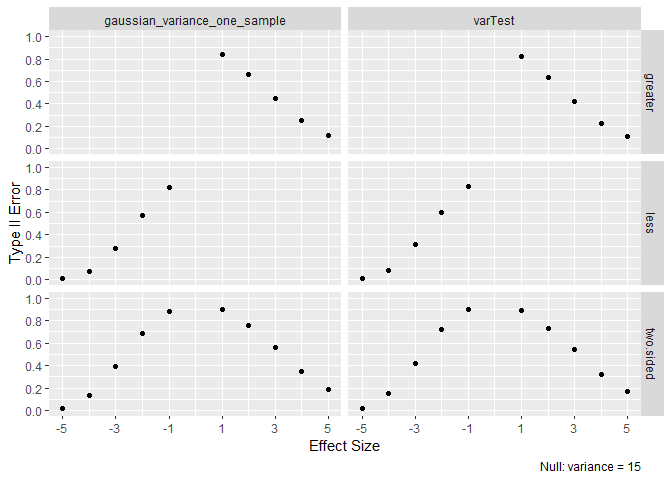
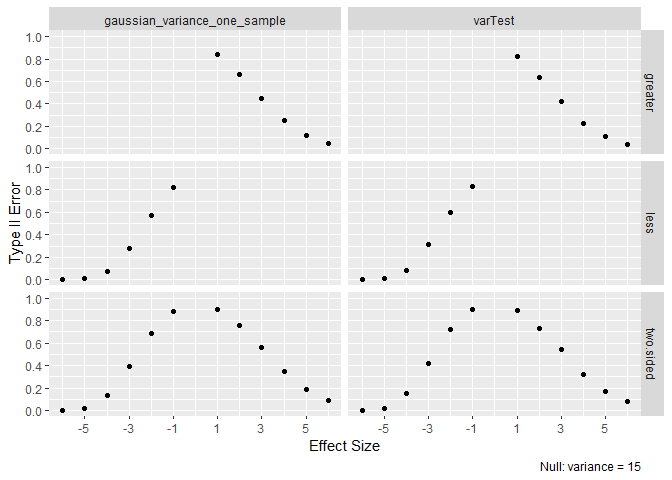
finish rewording

diff --git a/type II/README.md b/type II/README.md
@@ -2,10 +2,11 @@
 # Data Overview
 
 Similar to type I error rates, type II error rates are estimated. The
-main change is the alternative hypothesis is true. The null hypothesis
-is held constant and effect size varies. The first five rows look like
+main changes are the alternative hypothesis is true, the null hypothesis
+is held constant and effect size varies. The first five data points look
+like
 
-    #> # A tibble: 88,000 x 5
+    #> # A tibble: 96,000 x 5
     #>   test                   effectSize  stat    pvalue alt      
     #>   <chr>                       <dbl> <dbl>     <dbl> <chr>    
     #> 1 gaussian_mu_one_sample       -0.3  15.7 0.0000759 two.sided
@@ -13,12 +14,12 @@ is held constant and effect size varies. The first five rows look like
     #> 3 gaussian_mu_one_sample       -0.3  16.2 0.0000557 two.sided
     #> 4 gaussian_mu_one_sample       -0.3  17.3 0.0000319 two.sided
     #> 5 gaussian_mu_one_sample       -0.3  14.9 0.000113  two.sided
-    #> # ... with 87,995 more rows
+    #> # ... with 95,995 more rows
     #> # i Use `print(n = ...)` to see more rows
 
-Multiple experiments are aggregated to calculate type I error rates.
+Multiple experiments are aggregated to calculate type II error rates.
 
-    #> # A tibble: 22 x 3
+    #> # A tibble: 24 x 3
     #> # Groups:   test [2]
     #>   test                   effectSize Type_II_Error
     #>   <chr>                       <dbl>         <dbl>
@@ -27,7 +28,7 @@ Multiple experiments are aggregated to calculate type I error rates.
     #> 3 gaussian_mu_one_sample      -0.2           0.15
     #> 4 gaussian_mu_one_sample      -0.15          0.37
     #> 5 gaussian_mu_one_sample      -0.1           0.64
-    #> # ... with 17 more rows
+    #> # ... with 19 more rows
     #> # i Use `print(n = ...)` to see more rows
 
 Like type I calculations, each simulated experiment is based on a sample
@@ -36,8 +37,7 @@ times. Where possible, exact tests are included for comparison.
 
 # Overall Type II Error Rate
 
-All tests can achieve near 0% type II error for a large enough effect
-size.
+All tests achieve near 0% type II error for a large enough effect size.
 
 <img src="man/figures/README-typeTwoSummary-1.png" width="100%" />
 
@@ -50,9 +50,9 @@ For a distribution, the likelihood ratio test works well if
     similar to the exact test.
 
 To check the above, one graph is shown per test. When the effect size is
-near 0, type II error rates are near 100%. As effect sizes grow, type II
-error rates decrease. All tests achieve near 0% type II for large effect
-sizes.
+near 0, type II error rates are near 100%. As effect size grows, type II
+error rates decrease. All tests achieve near 0% type II for large enough
+effect sizes.
 
 ## Gaussian
 

diff --git a/README.md b/README.md
@@ -1,9 +1,10 @@
 
 # Repo Overview
 
-This repo is a simulation study. Each row is an experiment. It is
-simulated in that data are generated from random generators. The first
-five rows look like
+This repo is a simulation study of statistical properties for hypothesis
+tests in LRTesteR. Each row is an experiment where data are generated
+from random number generators and hypothesis test done. The first five
+rows look like
 
     #> # A tibble: 180,000 x 8
     #>   test                      mu variance      stat pvalue alt       CI_LB CI_UB
@@ -41,7 +42,7 @@ folders. Code to run the simulation is in the R Code folder.
 
 # One Sample Type I Error Rate
 
-Most tests have a type I error rate of .05. Likelihood ratio tests have
+Most tests have a type I error rate of 5%. Likelihood ratio tests have
 similar error rates to exact tests.
 
 <img src="man/figures/README-typeOneSummary-1.png" width="100%" />
@@ -52,23 +53,23 @@ Compared to the one sample tests, type I error rates have increased.
 
 For the one sample tests, all 200 data points are associated with one
 group. The one parameter is estimated using all 200 data points. For the
-one way tests, there are two groups and therefore two parameters that
-must be estimated. Each parameter is based on only 100 data points each.
-The cost of less data per parameter is a type I error further from the
+one way tests, there are two groups and therefore two parameters
+estimated. Each parameter is based on only 100 data points each. The
+cost of less data per parameter is a type I error further from the
 target 5%.
 
 <img src="man/figures/README-typeOneSummary2-1.png" width="100%" />
 
 # One Sample Type II Error Rate
 
-All tests can achieve near 0% type II error for a large enough effect
-size.
+All tests achieve near 0% type II error for a large enough effect size.
 
 <img src="man/figures/README-typeTwoSummary-1.png" width="100%" />
 
 # One Way Type II Error Rate
 
-Similar to above, all tests can achieve near 0% type II error rate.
+Similar to above, all one way tests have near 0% type II error rate for
+large effect sizes.
 
 <img src="man/figures/README-typeTwoSummary2-1.png" width="100%" />
 
@@ -76,6 +77,6 @@ Similar to above, all tests can achieve near 0% type II error rate.
 
 In addition to error rates, confidence interval coverage rates are
 estimated. Most functions have a coverage rate of 95%. The worst
-performing confidence intervals are within one a percentage point.
+performing confidence intervals are within one percentage point.
 
 <img src="man/figures/README-CISummary-1.png" width="100%" />

diff --git a/type I/README.md b/type I/README.md
@@ -7,7 +7,7 @@ a sample size of 200. Where possible, exact tests are included for
 comparison.
 
 Most tests have a type I error rate of .05. Exploring each test one by
-one, most tests have a consistent type I rate across the entire
+one, most tests have a consistent type I rate across the explored
 parameter space and alternative hypotheses. The negative binomial has an
 area where type I error rate increases slightly.
 
@@ -23,10 +23,9 @@ For a distribution, the likelihood ratio test works well if
     hypotheses.
 
 To check the above, two graphs are shown per test. For the first point,
-the parameter space is explored. If type I error is near 5% over all
-values, it is reasonable to assume type I error rate is consistent for
-all values not near the boundary. For the second point, results are
-aggregate across alternative hypotheses.
+type I error rate is calculated for many areas in the parameter
+space.For the second point, results are aggregate across alternative
+hypotheses.
 
 ## Gaussian
 
@@ -59,8 +58,9 @@ the type I error rate is .05. When the target number of successes is
 small and p is near one, the likelihood test has an increase in type I
 error rate. How near is too near depends on the target number of
 successes. Visually this is the bottom right corner of the right graph.
-The exact test shows poor performance in the bottom right corner as well
-but is always conservative.
+
+In the bottom right corner, the exact test is a bit off from the target
+5%. It is always conservative while the likelihood test is liberal.
 
 <img src="man/figures/README-negativeBonimialTypeI-1.png" width="100%" />
 
